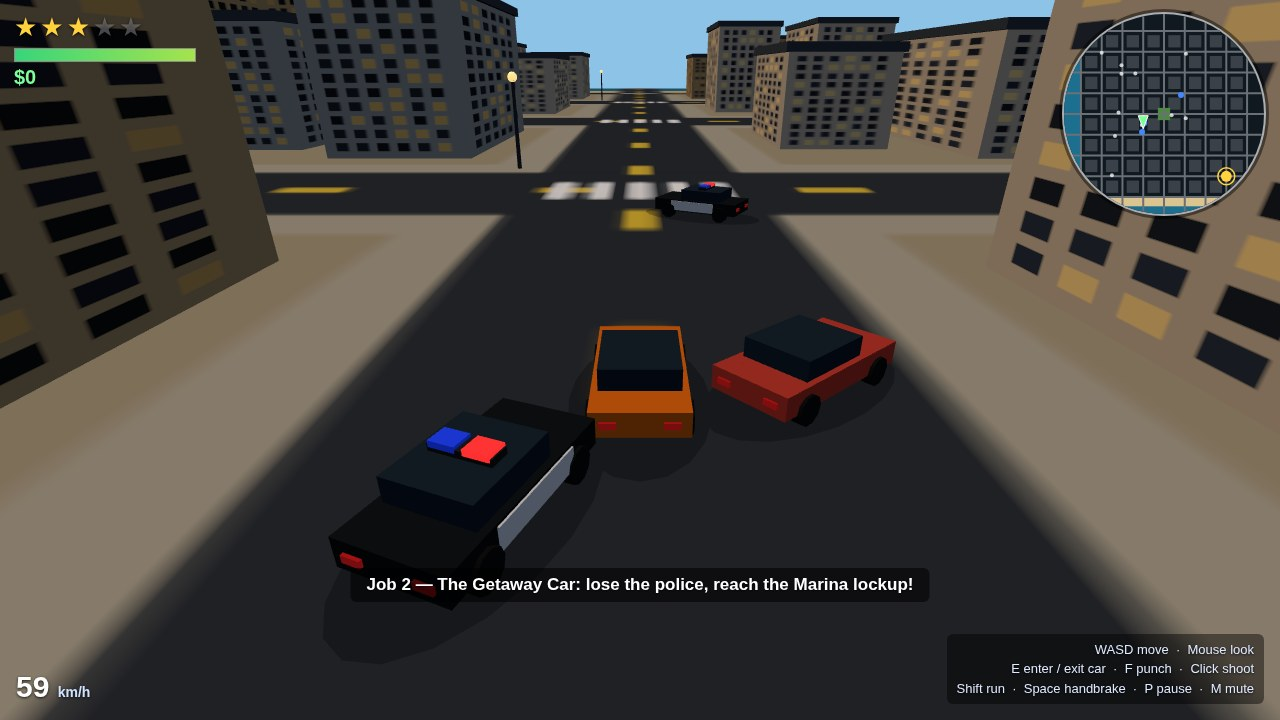
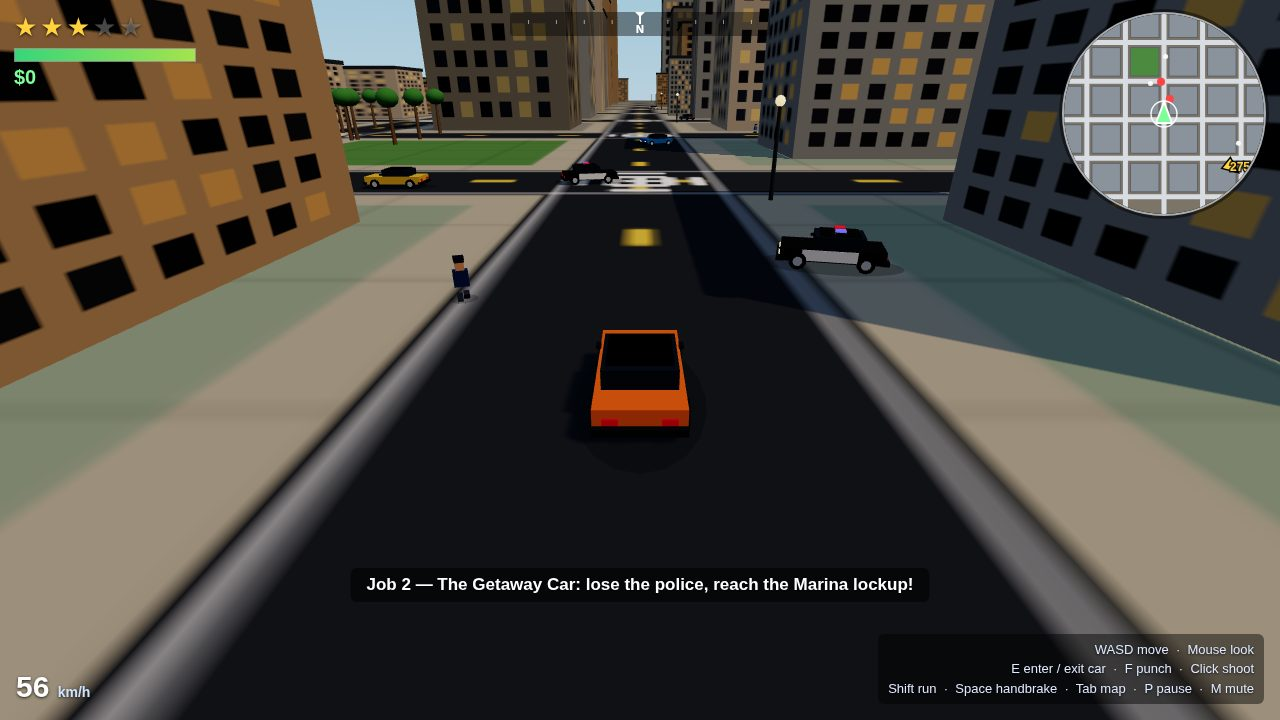
Porto Verde v2: fix shot staging (police in frame, foot on sidewalk) + big-map land tone

diff --git a/game/src/shots.js b/game/src/shots.js
@@ -34,19 +34,19 @@ export function setupShot(G, shot) {
     G.camYaw = Math.PI; G.camPitch = 0.3;
     G.setWanted(3);
     updatePolice(G, 0); // force-spawn the pursuit cars now (setWanted only sets the number)
-    // pull two police cars into the frame: one behind-left, one flanking on the right
+    // pull two police cars into the frame ahead: a roadblock forming up the avenue
     for (let i = 0; i < 2; i++) {
       const pc = G.police[i];
-      if (pc) { pc.pos.set(i ? 62 : 48, 0, i ? 112 : 124); pc.angle = Math.PI; pc.speed = 18; }
+      if (pc) { pc.pos.set(i ? 66 : 46, 0, i ? 84 : 60); pc.angle = Math.PI; pc.speed = 18; }
     }
     G.hud.setObjective('Job 2 — The Getaway Car: lose the police, reach the Marina lockup!');
     G.beacon.visible = true;
     G.beacon.position.set(270, 0, 270);
   } else if (shot === 'foot') {
-    // on foot in Old Town near the market, pedestrians and traffic around, marker ahead
-    p.pos.set(-252, 0, 288); p.yaw = -2.36; p.onFoot = true; p.group.visible = true;
+    // on foot on the Old Town sidewalk near the market, pedestrians and traffic around
+    p.pos.set(-266, 0, 262); p.yaw = -0.46; p.onFoot = true; p.group.visible = true;
     p.group.position.copy(p.pos);
-    G.camYaw = -2.36; G.camPitch = 0.22;
+    G.camYaw = -0.46; G.camPitch = 0.22;
     G.hud.setObjective('Job 1 — The Pickup: pick up the package in Old Town');
     G.beacon.visible = true;
     G.beacon.position.set(-270, 0, 270);

diff --git a/game/src/hud.js b/game/src/hud.js
@@ -203,7 +203,7 @@ function drawBigMap(G) {
   const S = 560, sc = S / (2 * BOUND + 60);
   const X = x => S / 2 + x * sc, Z = z => S / 2 + z * sc;
   g.clearRect(0, 0, S, S);
-  g.fillStyle = '#101820'; g.fillRect(0, 0, S, S);
+  g.fillStyle = '#6a5f52'; g.fillRect(0, 0, S, S); // land tone for the outer ring
   // water + sand
   g.fillStyle = '#1d6f8f';
   g.fillRect(0, 0, X(-HALF), S);
